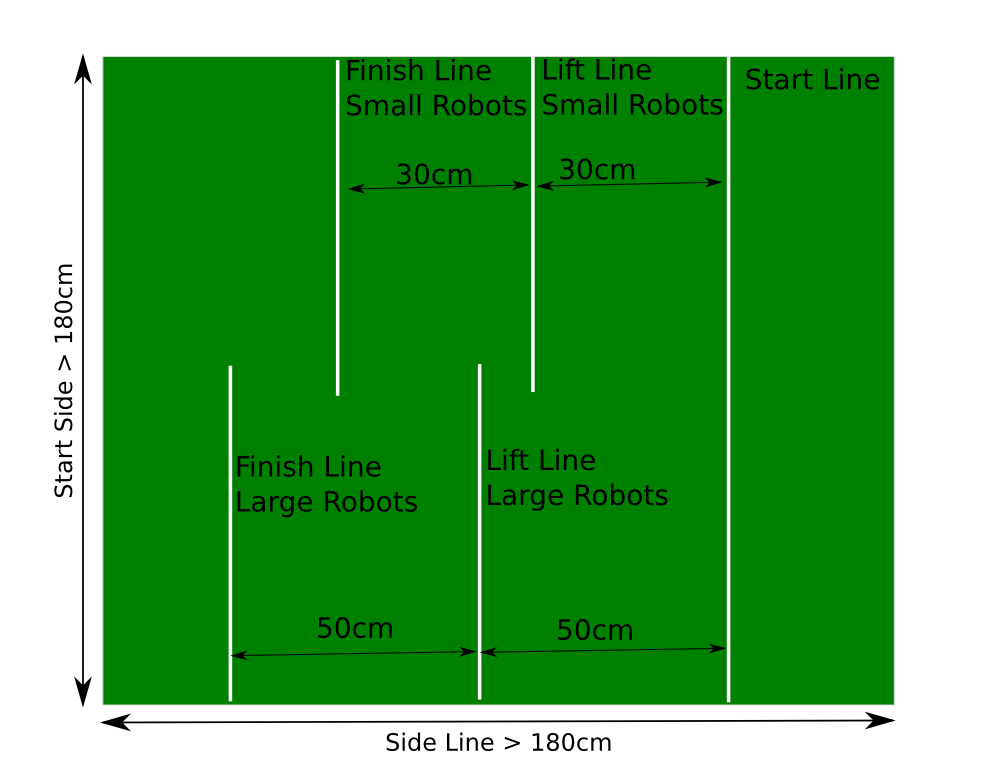
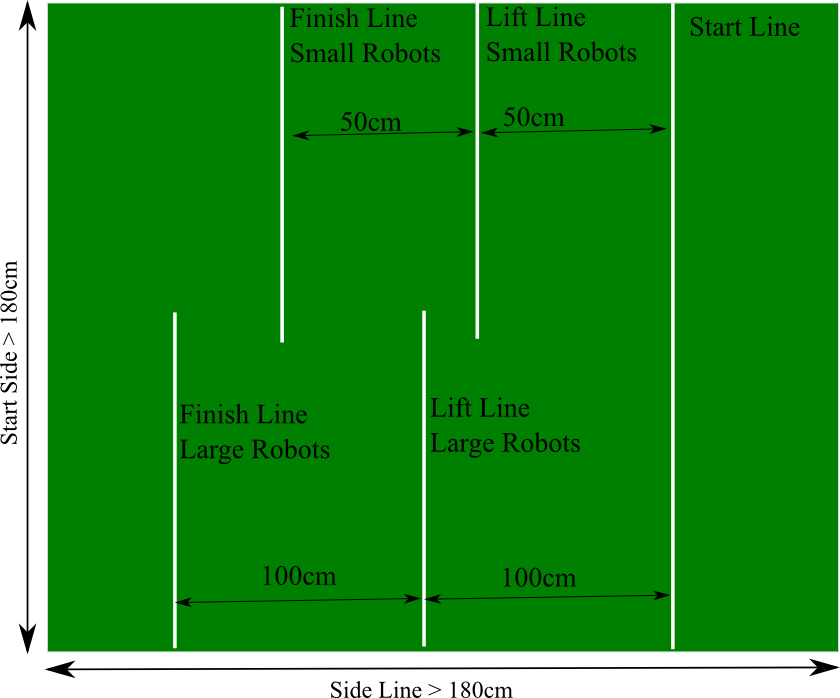
Some more work on the draft rules.

Changed region(s): [[0.0, 0.0, 1.0, 1.0]]

diff --git a/all-round-laws.tex b/all-round-laws.tex
@@ -37,6 +37,14 @@ robots.
 The latest official version of the rules of the game for \HuroCup\ is
 always available from the FIRA \HuroCup\ website (http://www.fira.net).
 
+\section*{Changes to the Rules of \HuroCup\ Allround for \thisyear}
+
+In case of multiple robots having the same summary as well as single
+event score, the performance of the robots in the marathon is taken as
+a tie breaker. If robots are still tied at this point the performance
+in the other events are used as tie breaker.
+
+
 \newpage
 
 \section{The All-Round Competition}
@@ -107,14 +115,13 @@ the assitant referee.
  according on the summary score for the other robots.
 
 \item In case of multiple robots with the same summary score, the
- robot maximum score of a robot in a single event is used as a tie
- breaker.
+  maximum score of a robot in a single event is used as a tie breaker.
 
 \item In case of multiple robots with the same summary score and the
- same maximum single event score, the score of the robot over a single
- event is used as a tie breaker. The order of events is lift and
- carry, obstacle run, penalty kick, basketball, weight lifting, and
- robot dash.
+  same maximum single event score, the score of the robot over a
+  single event is used as a tie breaker. The order of events is
+  marathon, lift and carry, obstacle run, climbing wall, basketball,
+  weight lifting, penalty kick, and robot dash.
 
 \item In contrast to the other \HuroCup\ events, there is only a
  single round in the all-round competition. 

diff --git a/weight-lifting-laws.tex b/weight-lifting-laws.tex
@@ -43,6 +43,11 @@ robots.
 The latest official version of the rules of the game for \HuroCup\ is
 always available from the FIRA \HuroCup\ website (http://www.fira.net).
 
+\section*{Changes to the Rules of \HuroCup\ Weight Lifting for \thisyear}
+
+The distance that the robot has to walk as been increased for the
+small robots to 50cm and for the large robots to 100cm.
+
 \newpage
 
 \section{Weight Lifting}
@@ -69,7 +74,7 @@ minimum dimension of 1.8m by 1.8m.
 \item There are three lines marked on the playing field: (a) the start line,
  (b) the lift line, and (c) the finish line. The distance between the
  start line and the lift line and the lift line and the finish line is
- 30cm for small robots and 50cm for large robots.
+ 50cm for small robots and 100cm for large robots.
 
 \item The width of the start, lift, and finish lines is between 3 to 7cm.
 
@@ -170,7 +175,11 @@ the assitant referee.
 
 \item While at least one foot is touching the lifting line, the robot
   must lift the lifting bar above its head. The height difference
-  between the low and high position must be at least 15cm.
+  between the low and high position must be at least:
+  \begin{itemize}
+    \item 15cm for small robots,
+    \item 45cm for large robots.
+  \end{itemize}
 
 \item While keeping the lifting bar above its head, the robot must
  continue to walk towards the finish line. A lift is considered

diff --git a/marathon-laws.tex b/marathon-laws.tex
@@ -106,16 +106,16 @@ line, called the centre line.
 
 \item At the entry to a turn or corner, markers are placed on both
   sides of the track. The markers contain an arrow that will point in
-  the direction of the turn or corner with a 45 degree angle. The
+  the direction of the turn or corner with a 90 degree angle. The
   markers are black on a white background or white on a black
-  background. The size of the marker is 10cm * 10cm. A left and right
+  background. The size of the marker is 10cm * 10cm. A right
   marker is shown in Fig.~\ref{fig:markers}
 
 \begin{figure}
   \begin{center}
-    \includegraphics[width=0.7\textwidth]{Figures/marathon-markers}
+    \includegraphics[width=0.7\textwidth]{Figures/marathon-marker}
   \end{center}
-  \caption{Left and Right Markers}
+  \caption{Right Marker}
   \label{fig:markers}
 \end{figure}
 
